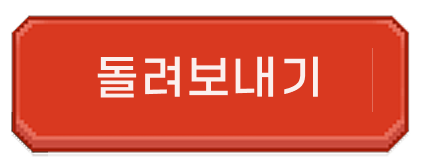
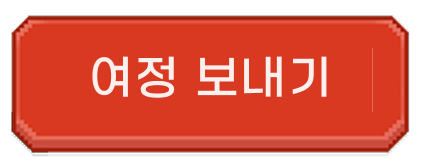
style : 새로운 여정 모달 디자인 적용
- 동물 상세 바텀시트 전용 여정 안내 모달 구성
- 다이얼로그와 일러스트 및 안내 문구 이미지 적용
- 취소하기와 여정 보내기 버튼 동작 및 접근성 상태 유지

Changed region(s): [[0.2162, 0.3274, 0.8029, 0.5952]]

diff --git a/src/shared/ui/ReleaseCreatureAlert.tsx b/src/shared/ui/ReleaseCreatureAlert.tsx
@@ -10,14 +10,25 @@ import { scaleByDeviceWidth } from '@/src/shared/lib/layout';
 
 const ALERT_IMAGE = require('@/src/shared/assets/images/release-creature-alert.png');
 const ALERT_TEXT_IMAGE = require('@/src/shared/assets/images/release-creature-alert-text.png');
+const JOURNEY_ALERT_IMAGE = require('@/src/shared/assets/images/release-creature-journey-alert.png');
+const JOURNEY_ILLUSTRATION_IMAGE = require('@/src/shared/assets/images/release-creature-journey-illustration.png');
+const JOURNEY_TEXT_IMAGE = require('@/src/shared/assets/images/release-creature-journey-text.png');
 const CANCEL_BUTTON_IMAGE = require('@/src/shared/assets/images/release-creature-cancel-button.png');
 const CONFIRM_BUTTON_IMAGE = require('@/src/shared/assets/images/release-creature-confirm-button.png');
 const ALERT_WIDTH = scaleByDeviceWidth(280);
 const ALERT_HEIGHT = ALERT_WIDTH * (800 / 1120);
+const JOURNEY_ALERT_HEIGHT = ALERT_WIDTH * (1132 / 1120);
 const TEXT_WIDTH = scaleByDeviceWidth(234);
 const TEXT_HEIGHT = TEXT_WIDTH * (256 / 936);
 const TEXT_TOP = scaleByDeviceWidth(30);
 const TEXT_BUTTON_GAP = scaleByDeviceWidth(15);
+const JOURNEY_ILLUSTRATION_WIDTH = scaleByDeviceWidth(256);
+const JOURNEY_ILLUSTRATION_HEIGHT = JOURNEY_ILLUSTRATION_WIDTH * (320 / 1024);
+const JOURNEY_ILLUSTRATION_TOP = scaleByDeviceWidth(32);
+const JOURNEY_TEXT_WIDTH = scaleByDeviceWidth(194);
+const JOURNEY_TEXT_HEIGHT = JOURNEY_TEXT_WIDTH * (324 / 776);
+const JOURNEY_TEXT_TOP = scaleByDeviceWidth(122);
+const JOURNEY_BUTTON_TOP = scaleByDeviceWidth(224);
 const BUTTON_WIDTH = scaleByDeviceWidth(105.25);
 const BUTTON_HEIGHT = BUTTON_WIDTH * (168 / 421);
 const BUTTON_GAP = scaleByDeviceWidth(8);
@@ -27,31 +38,63 @@ type ReleaseCreatureAlertProps = {
   isConfirming?: boolean;
   onClose: () => void;
   onConfirm?: () => void;
+  variant?: 'release' | 'journey';
 };
 
 export function ReleaseCreatureAlert({
   isConfirming = false,
   onClose,
   onConfirm,
+  variant = 'release',
 }: ReleaseCreatureAlertProps) {
+  const isJourney = variant === 'journey';
+
   return (
     <View
-      accessibilityLabel="자연으로 돌려보내기 확인"
+      accessibilityLabel={
+        isJourney ? '새로운 여정 보내기 확인' : '자연으로 돌려보내기 확인'
+      }
       accessibilityViewIsModal
       style={styles.overlay}
     >
-      <View style={styles.alert}>
+      <View
+        style={[
+          styles.alert,
+          { height: isJourney ? JOURNEY_ALERT_HEIGHT : ALERT_HEIGHT },
+        ]}
+      >
         <Image
           resizeMode="contain"
-          source={ALERT_IMAGE}
-          style={styles.alertImage}
+          source={isJourney ? JOURNEY_ALERT_IMAGE : ALERT_IMAGE}
+          style={[
+            styles.alertImage,
+            { height: isJourney ? JOURNEY_ALERT_HEIGHT : ALERT_HEIGHT },
+          ]}
         />
-        <Image
-          resizeMode="contain"
-          source={ALERT_TEXT_IMAGE}
-          style={styles.textImage}
-        />
-        <View style={styles.buttonRow}>
+        {isJourney ? (
+          <>
+            <Image
+              resizeMode="contain"
+              source={JOURNEY_ILLUSTRATION_IMAGE}
+              style={styles.journeyIllustration}
+            />
+            <Image
+              accessibilityLabel="새로운 여정을 시작할까요? 이 동물은 농장을 졸업하고 새로운 여정을 시작해요. 보낸 뒤에는 다시 데려올 수 없어요."
+              resizeMode="contain"
+              source={JOURNEY_TEXT_IMAGE}
+              style={styles.journeyText}
+            />
+          </>
+        ) : (
+          <Image
+            resizeMode="contain"
+            source={ALERT_TEXT_IMAGE}
+            style={styles.textImage}
+          />
+        )}
+        <View
+          style={[styles.buttonRow, isJourney && styles.journeyButtonRow]}
+        >
           <Pressable
             accessibilityLabel="취소하기"
             disabled={isConfirming}
@@ -68,7 +111,7 @@ export function ReleaseCreatureAlert({
             />
           </Pressable>
           <Pressable
-            accessibilityLabel="돌려보내기"
+            accessibilityLabel={isJourney ? '여정 보내기' : '돌려보내기'}
             disabled={isConfirming}
             onPress={onConfirm}
             style={({ pressed }) => [
@@ -124,12 +167,29 @@ const styles = StyleSheet.create({
     width: TEXT_WIDTH,
     height: TEXT_HEIGHT,
   },
+  journeyIllustration: {
+    position: 'absolute',
+    top: JOURNEY_ILLUSTRATION_TOP,
+    alignSelf: 'center',
+    width: JOURNEY_ILLUSTRATION_WIDTH,
+    height: JOURNEY_ILLUSTRATION_HEIGHT,
+  },
+  journeyText: {
+    position: 'absolute',
+    top: JOURNEY_TEXT_TOP,
+    alignSelf: 'center',
+    width: JOURNEY_TEXT_WIDTH,
+    height: JOURNEY_TEXT_HEIGHT,
+  },
   buttonRow: {
     position: 'absolute',
     top: TEXT_TOP + TEXT_HEIGHT + TEXT_BUTTON_GAP,
     alignSelf: 'center',
     flexDirection: 'row',
     columnGap: BUTTON_GAP,
+  },
+  journeyButtonRow: {
+    top: JOURNEY_BUTTON_TOP,
   },
   actionButton: {
     width: BUTTON_WIDTH,

diff --git a/src/widgets/creature-detail-sheet/ui/CreatureDetailSheet.tsx b/src/widgets/creature-detail-sheet/ui/CreatureDetailSheet.tsx
@@ -895,6 +895,7 @@ export function CreatureDetailSheet({
                 ? undefined
                 : () => void handleReleaseAnimal()
             }
+            variant="journey"
           />
         )}
       </GestureHandlerRootView>
